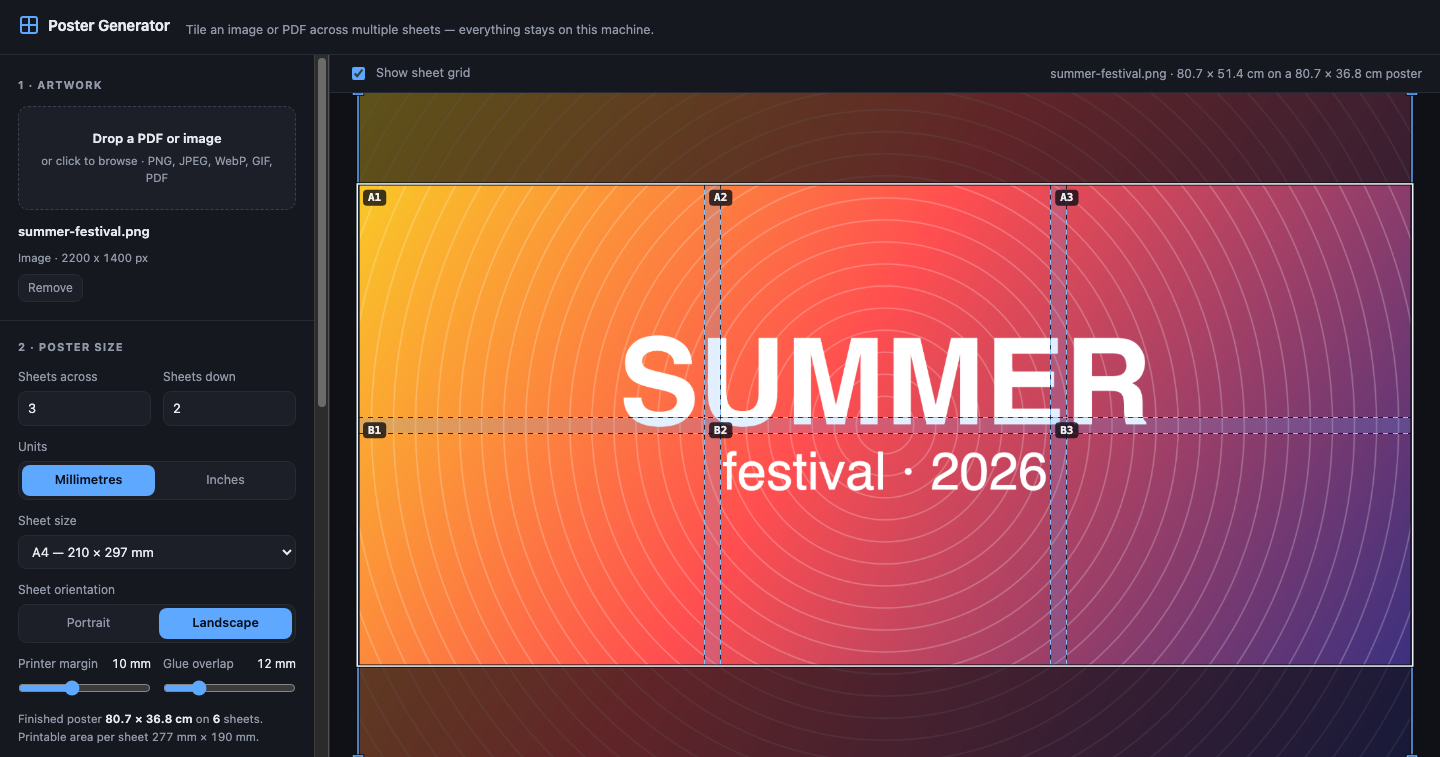
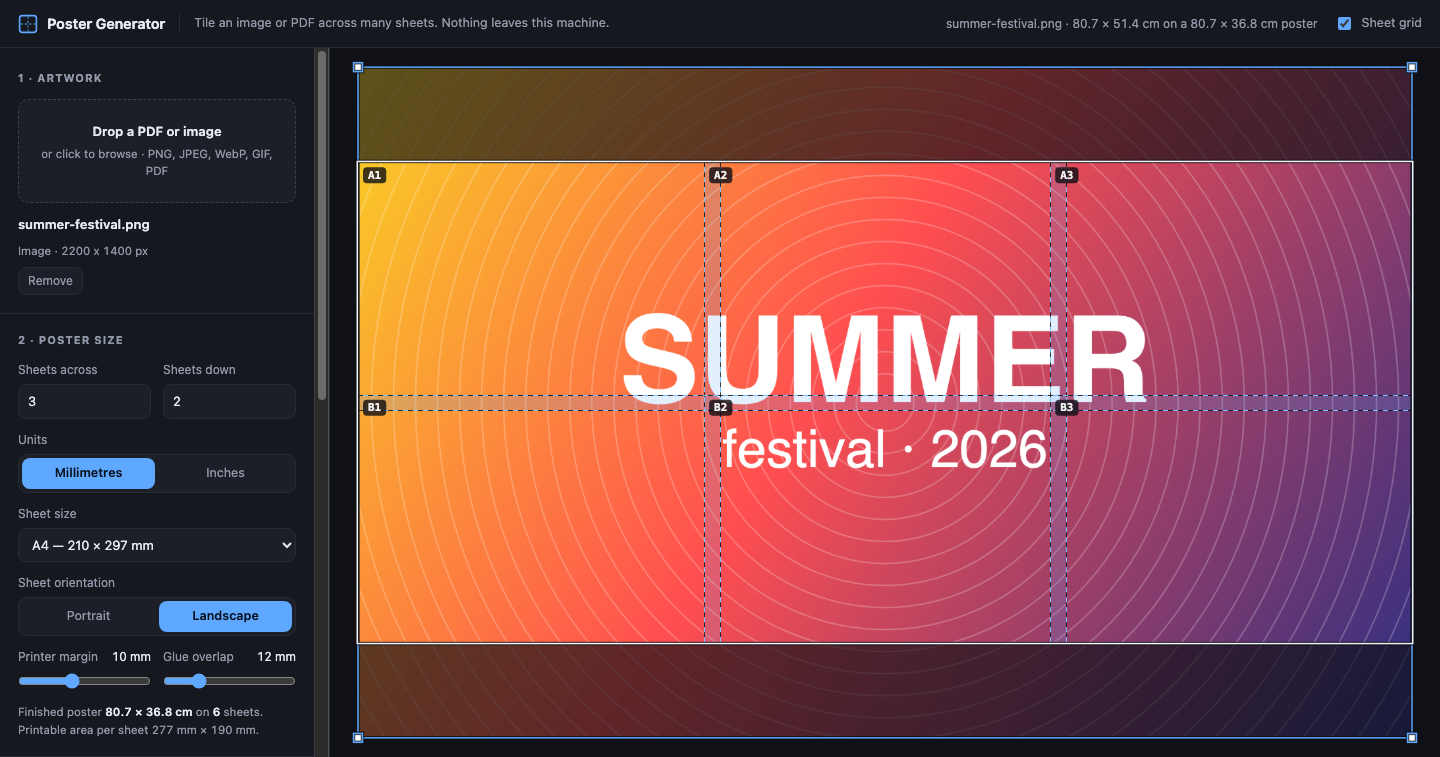
Rebuild the header as one aligned bar
The bar used align-items:baseline on a flex row that mixes a 20px icon with two
text sizes. The browser lined up text baselines across that row, which dropped
the tagline 5.4px below the title. It is align-items:center now, and all five
items share one centre line exactly.

The sheet grid toggle and the status line had a second bar of their own, which
spent 38px of canvas on two controls. They move into the header. Chrome above the
canvas goes from 93px to 48px, and the canvas gains 45px.

The mark becomes an SVG: a sheet with dashed cut lines, which says what the app
does and stays crisp at any density. The tagline truncates, then hides under
1120px, and the status hides under 700px.

test/e2e.test.js measures that the five header items share one centre line within
1px and that no second bar comes back.

Claude-Session: https://claude.ai/code/session_01FHdGsdqSpeRTdveQXc88GX

diff --git a/css/app.css b/css/app.css
@@ -99,29 +99,57 @@ body {
 
 /* ---------- top bar ---------- */
 
+/* One bar carries the identity on the left and the live state on the right.
+   align-items:center, not baseline: a baseline row mixes an icon with two text
+   sizes and drops the tagline several pixels below the title. */
 .topbar {
   display: flex;
-  align-items: baseline;
-  gap: 16px;
-  padding: 14px 20px;
+  align-items: center;
+  gap: 14px;
+  height: 48px;
+  padding: 0 18px;
   border-bottom: 1px solid var(--line);
   background: var(--panel);
   flex: none;
 }
 
-.brand { display: flex; align-items: center; gap: 10px; }
+.brand { display: flex; align-items: center; gap: 9px; flex: none; }
 
 .mark {
-  width: 18px; height: 18px;
-  border: 2px solid var(--accent);
-  border-radius: 3px;
-  background:
-    linear-gradient(var(--accent), var(--accent)) center / 100% 2px no-repeat,
-    linear-gradient(var(--accent), var(--accent)) center / 2px 100% no-repeat;
+  width: 20px;
+  height: 20px;
+  color: var(--accent);
+  flex: none;
 }
 
-.topbar h1 { font-size: 15px; font-weight: 650; margin: 0; letter-spacing: -0.01em; }
-.tagline { margin: 0; color: var(--muted); font-size: 12.5px; }
+.topbar h1 {
+  font-size: 14.5px;
+  font-weight: 650;
+  margin: 0;
+  letter-spacing: -0.01em;
+  white-space: nowrap;
+}
+
+.tagline {
+  margin: 0;
+  padding-left: 14px;
+  border-left: 1px solid var(--line);
+  color: var(--muted);
+  font-size: 12.5px;
+  white-space: nowrap;
+  overflow: hidden;
+  text-overflow: ellipsis;
+}
+
+.status {
+  margin-left: auto;
+  display: flex;
+  align-items: center;
+  gap: 16px;
+  min-width: 0;
+}
+
+.status .toggle { flex: none; }
 
 /* ---------- layout ---------- */
 
@@ -298,16 +326,14 @@ button {
 
 .stage { display: flex; flex-direction: column; min-width: 0; min-height: 0; }
 
-.stagehead {
-  display: flex;
-  align-items: center;
-  justify-content: space-between;
-  gap: 16px;
-  padding: 9px 18px;
-  border-bottom: 1px solid var(--line);
-  background: var(--panel);
+.stagehint {
+  font-size: 12px;
+  color: var(--muted);
+  font-variant-numeric: tabular-nums;
+  white-space: nowrap;
+  overflow: hidden;
+  text-overflow: ellipsis;
 }
-.stagehint { font-size: 12px; color: var(--muted); font-variant-numeric: tabular-nums; }
 
 .canvaswrap { flex: 1; min-height: 0; position: relative; }
 #preview { position: absolute; inset: 0; width: 100%; height: 100%; touch-action: none; }
@@ -333,6 +359,16 @@ button {
   font-size: 13px;
   max-width: 70ch;
   z-index: 10;
+}
+
+/* The tagline is the first thing to go when the bar gets tight: the status on
+   the right reports live state and earns its place. */
+@media (max-width: 1120px) {
+  .tagline { display: none; }
+}
+
+@media (max-width: 700px) {
+  .status .stagehint { display: none; }
 }
 
 @media (max-width: 860px) {

diff --git a/test/e2e.test.js b/test/e2e.test.js
@@ -14,6 +14,43 @@ export async function body({ page, check, downloads }) {
   check('no console errors on boot', page.errors().length === 0,
     page.errors().map((e) => e.text).join(' | ').slice(0, 300));
 
+  // --- header layout. One bar, and every item on one optical line. A flex row
+  // that mixes an icon with two text sizes drops text off the line under
+  // align-items:baseline, which is what this guards against.
+  const header = JSON.parse(await page.run(`
+    const mid = (sel) => {
+      const e = document.querySelector(sel);
+      if (!e) return null;
+      const b = e.getBoundingClientRect();
+      return (b.top + b.bottom) / 2;
+    };
+    const bar = document.querySelector('.topbar').getBoundingClientRect();
+    const canvas = document.querySelector('.canvaswrap').getBoundingClientRect();
+    return JSON.stringify({
+      mids: ['.mark', '.topbar h1', '.tagline', '.stagehint', '.status .toggle'].map(mid),
+      barHeight: bar.height,
+      chrome: canvas.top,
+    });`));
+
+  const mids = header.mids.filter((m) => m !== null);
+  const spread = Math.max(...mids) - Math.min(...mids);
+  check('every header item sits on one line', mids.length === 5 && spread < 1,
+    `${mids.length} items, spread ${spread.toFixed(2)} px`);
+  check('the header is a single compact bar', header.barHeight <= 56, `${header.barHeight} px`);
+  check('the canvas starts directly under the header, with no second bar',
+    Math.abs(header.chrome - header.barHeight) < 0.5, `canvas top ${header.chrome}, bar ${header.barHeight}`);
+
+  // The grid toggle moved into the header and must still drive the preview.
+  check('the sheet grid toggle is in the header and still works',
+    await page.run(`
+      const t = document.getElementById('showGrid');
+      if (!t.closest('.topbar')) return false;
+      const before = t.checked;
+      t.checked = !before; t.dispatchEvent(new Event('change'));
+      const flipped = t.checked !== before;
+      t.checked = before; t.dispatchEvent(new Event('change'));
+      return flipped;`));
+
   const poster = () => page.run(text('posterReadout'));
   check('default 2x3 A4 poster', /38 × 83\.1 cm/.test(await poster()), await poster());
 

diff --git a/index.html b/index.html
@@ -11,10 +11,17 @@
 
 <header class="topbar">
   <div class="brand">
-    <span class="mark" aria-hidden="true"></span>
+    <svg class="mark" viewBox="0 0 20 20" aria-hidden="true">
+      <rect x="1.6" y="1.6" width="16.8" height="16.8" rx="2.6" fill="none" stroke="currentColor" stroke-width="1.6"/>
+      <path d="M10 2.4v15.2M2.4 10h15.2" fill="none" stroke="currentColor" stroke-width="1.3" stroke-dasharray="2.4 2" opacity="0.65"/>
+    </svg>
     <h1>Poster Generator</h1>
   </div>
-  <p class="tagline">Tile an image or PDF across multiple sheets — everything stays on this machine.</p>
+  <p class="tagline">Tile an image or PDF across many sheets. Nothing leaves this machine.</p>
+  <div class="status">
+    <span class="stagehint" id="stagehint">No artwork loaded</span>
+    <label class="toggle"><input type="checkbox" id="showGrid" checked> Sheet grid</label>
+  </div>
 </header>
 
 <main class="shell">
@@ -152,10 +159,6 @@
   </aside>
 
   <section class="stage">
-    <div class="stagehead">
-      <label class="toggle"><input type="checkbox" id="showGrid" checked> Show sheet grid</label>
-      <span class="stagehint" id="stagehint">No artwork loaded</span>
-    </div>
     <div class="canvaswrap" id="canvaswrap">
       <canvas id="preview"></canvas>
     </div>

diff --git a/CLAUDE.md b/CLAUDE.md
@@ -167,6 +167,13 @@ input handler rounds to it.
 removed. It fought with page scrolling on small windows, and the handles already
 size the artwork. Do not add it again without a request.
 
+**The header is one bar with `align-items: center`.** It mixes a 20 px icon with
+two text sizes. Under `align-items: baseline` the browser lines up text baselines
+across that row, which dropped the tagline about 5 px below the title. The sheet
+grid toggle and the status line live in this bar; they had their own second bar,
+which cost 38 px of canvas for two controls. `test/e2e.test.js` measures that all
+five header items share one center line and that no second bar returns.
+
 **Rotation uses 90° steps only.** The bounding box of the placed artwork thus
 stays parallel to the axes, which keeps hit tests and resize handles simple. Free
 angles need a rotated-box hit test through all of `app.js`.

diff --git a/README.md b/README.md
@@ -17,7 +17,8 @@ network calls, and no telemetry. When Wi-Fi is off, the page still works.
 |---|---|
 | ![Poster Generator, dark theme](docs/screenshot-dark.png) | ![Poster Generator, light theme](docs/screenshot-light.png) |
 
-The theme follows your operating system.
+The theme follows your operating system. One header bar carries the name on the
+left, and the live state of the poster on the right.
 
 ## Contents
 
